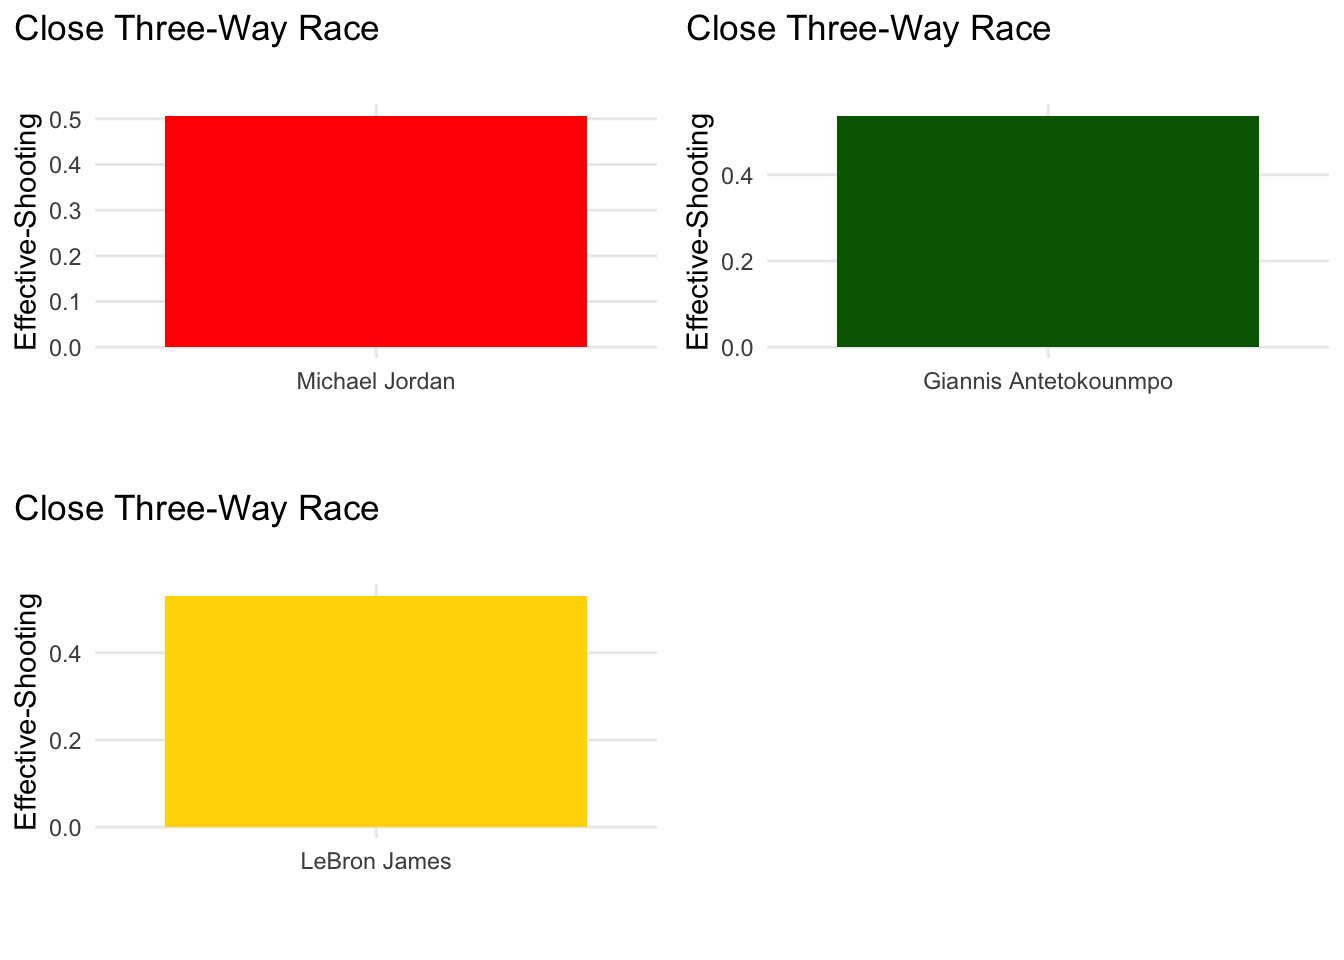
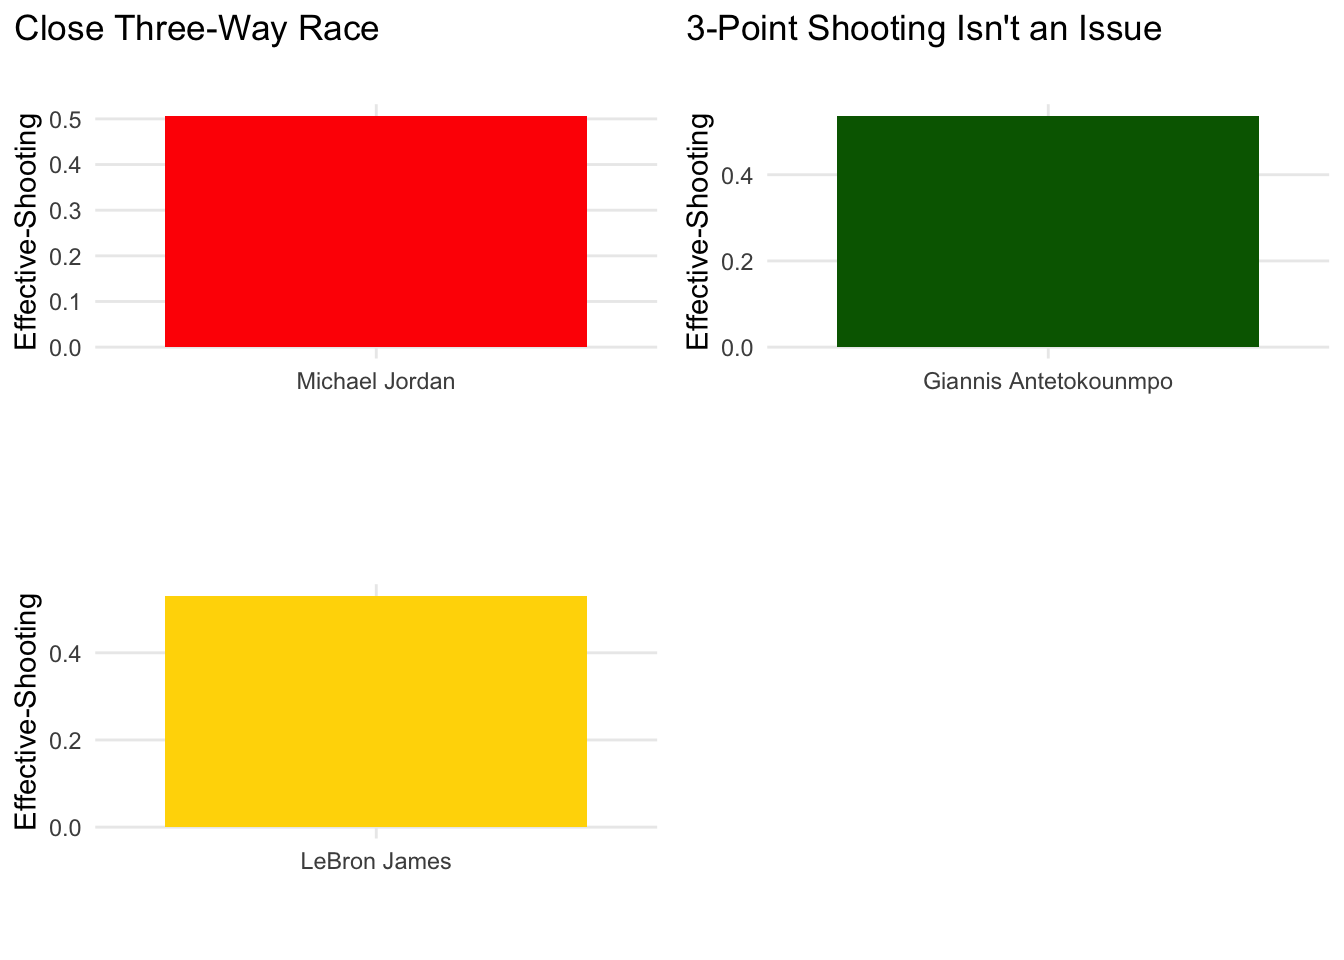
f

Changed region(s): [[0.5, 0.0, 0.875, 0.0625], [0.0, 0.5, 0.2812, 0.5625]]

diff --git a/posts/giannis-could-be-the-goat/index.html b/posts/giannis-could-be-the-goat/index.html
@@ -304,7 +304,7 @@ code span.wa { color: #60a0b0; font-weight: bold; font-style: italic; } /* Warni
 <span id="cb3-11"><a href="#cb3-11" aria-hidden="true" tabindex="-1"></a>bar2 <span class="ot">&lt;-</span> <span class="fu">ggplot</span>() <span class="sc">+</span> </span>
 <span id="cb3-12"><a href="#cb3-12" aria-hidden="true" tabindex="-1"></a>  </span>
 <span id="cb3-13"><a href="#cb3-13" aria-hidden="true" tabindex="-1"></a>  <span class="fu">geom_bar</span>(<span class="at">data=</span>ga2, <span class="fu">aes</span>(<span class="at">x=</span><span class="fu">reorder</span>(Player, <span class="st">`</span><span class="at">2P%</span><span class="st">`</span>), <span class="at">weight=</span><span class="st">`</span><span class="at">2P%</span><span class="st">`</span>), <span class="at">fill=</span> <span class="st">"dark green"</span>)  <span class="sc">+</span> </span>
-<span id="cb3-14"><a href="#cb3-14" aria-hidden="true" tabindex="-1"></a>  <span class="fu">labs</span>(<span class="at">title=</span><span class="st">"Close Three-Way Race"</span>, <span class="at">subtitle =</span> <span class="st">""</span>,  <span class="at">x=</span><span class="st">""</span>, <span class="at">y=</span><span class="st">"Effective-Shooting"</span>, <span class="at">caption =</span> <span class="st">""</span>) <span class="sc">+</span> </span>
+<span id="cb3-14"><a href="#cb3-14" aria-hidden="true" tabindex="-1"></a>  <span class="fu">labs</span>(<span class="at">title=</span><span class="st">"3-Point Shooting Isn't an Issue"</span>, <span class="at">subtitle =</span> <span class="st">""</span>,  <span class="at">x=</span><span class="st">""</span>, <span class="at">y=</span><span class="st">"Effective-Shooting"</span>, <span class="at">caption =</span> <span class="st">""</span>) <span class="sc">+</span> </span>
 <span id="cb3-15"><a href="#cb3-15" aria-hidden="true" tabindex="-1"></a>  <span class="fu">theme_minimal</span>()  <span class="sc">+</span> </span>
 <span id="cb3-16"><a href="#cb3-16" aria-hidden="true" tabindex="-1"></a>  <span class="fu">theme</span>(</span>
 <span id="cb3-17"><a href="#cb3-17" aria-hidden="true" tabindex="-1"></a>    <span class="at">panel.grid.minor =</span> <span class="fu">element_blank</span>(),</span>
@@ -313,7 +313,7 @@ code span.wa { color: #60a0b0; font-weight: bold; font-style: italic; } /* Warni
 <span id="cb3-20"><a href="#cb3-20" aria-hidden="true" tabindex="-1"></a>bar3 <span class="ot">&lt;-</span> <span class="fu">ggplot</span>() <span class="sc">+</span> </span>
 <span id="cb3-21"><a href="#cb3-21" aria-hidden="true" tabindex="-1"></a>  </span>
 <span id="cb3-22"><a href="#cb3-22" aria-hidden="true" tabindex="-1"></a>  <span class="fu">geom_bar</span>(<span class="at">data=</span>lbj2, <span class="fu">aes</span>(<span class="at">x=</span><span class="fu">reorder</span>(Player, <span class="st">`</span><span class="at">2P%</span><span class="st">`</span>), <span class="at">weight=</span><span class="st">`</span><span class="at">2P%</span><span class="st">`</span>), <span class="at">fill=</span><span class="st">"gold"</span>)  <span class="sc">+</span> </span>
-<span id="cb3-23"><a href="#cb3-23" aria-hidden="true" tabindex="-1"></a>  <span class="fu">labs</span>(<span class="at">title=</span><span class="st">"Close Three-Way Race"</span>, <span class="at">subtitle =</span> <span class="st">""</span>,  <span class="at">x=</span><span class="st">""</span>, <span class="at">y=</span><span class="st">"Effective-Shooting"</span>, <span class="at">caption =</span> <span class="st">""</span>) <span class="sc">+</span> </span>
+<span id="cb3-23"><a href="#cb3-23" aria-hidden="true" tabindex="-1"></a>  <span class="fu">labs</span>(<span class="at">title=</span><span class="st">""</span>, <span class="at">subtitle =</span> <span class="st">""</span>,  <span class="at">x=</span><span class="st">""</span>, <span class="at">y=</span><span class="st">"Effective-Shooting"</span>, <span class="at">caption =</span> <span class="st">""</span>) <span class="sc">+</span> </span>
 <span id="cb3-24"><a href="#cb3-24" aria-hidden="true" tabindex="-1"></a>  <span class="fu">theme_minimal</span>()  <span class="sc">+</span> </span>
 <span id="cb3-25"><a href="#cb3-25" aria-hidden="true" tabindex="-1"></a>  <span class="fu">theme</span>(</span>
 <span id="cb3-26"><a href="#cb3-26" aria-hidden="true" tabindex="-1"></a>    <span class="at">panel.grid.minor =</span> <span class="fu">element_blank</span>(),</span>
@@ -327,6 +327,7 @@ code span.wa { color: #60a0b0; font-weight: bold; font-style: italic; } /* Warni
 <p><img src="index_files/figure-html/unnamed-chunk-3-1.png" class="img-fluid" width="672"></p>
 </div>
 </div>
+<p>In conclusion it may be difficult to calculate if someone can be the greatest of all time, but we can clearly see that Giannis is right up there with the two players commonly referred to as the g.o.a.t with where he is in his career. He won a championship younger than those two and is on his way for more hardware.</p>
 <p>conc</p>
 
 

diff --git a/index.html b/index.html
@@ -164,7 +164,7 @@ ul.task-list li input[type="checkbox"] {
 
 <div class="quarto-listing quarto-listing-container-default" id="listing-listing">
 <div class="list quarto-listing-default">
-<div class="quarto-post image-right" data-index="0" data-categories="sports,data,basketball,nba" data-listing-date-sort="1669960800000" data-listing-file-modified-sort="1670219037355" data-listing-reading-time-sort="3.3">
+<div class="quarto-post image-right" data-index="0" data-categories="sports,data,basketball,nba" data-listing-date-sort="1669960800000" data-listing-file-modified-sort="1670219451411" data-listing-reading-time-sort="3.61">
 <div class="thumbnail">
 <p><a href="./posts/giannis-could-be-the-goat/index.html"> <img src="./posts/giannis-could-be-the-goat/image.png" class="thumnail-image"> </a></p>
 </div>
